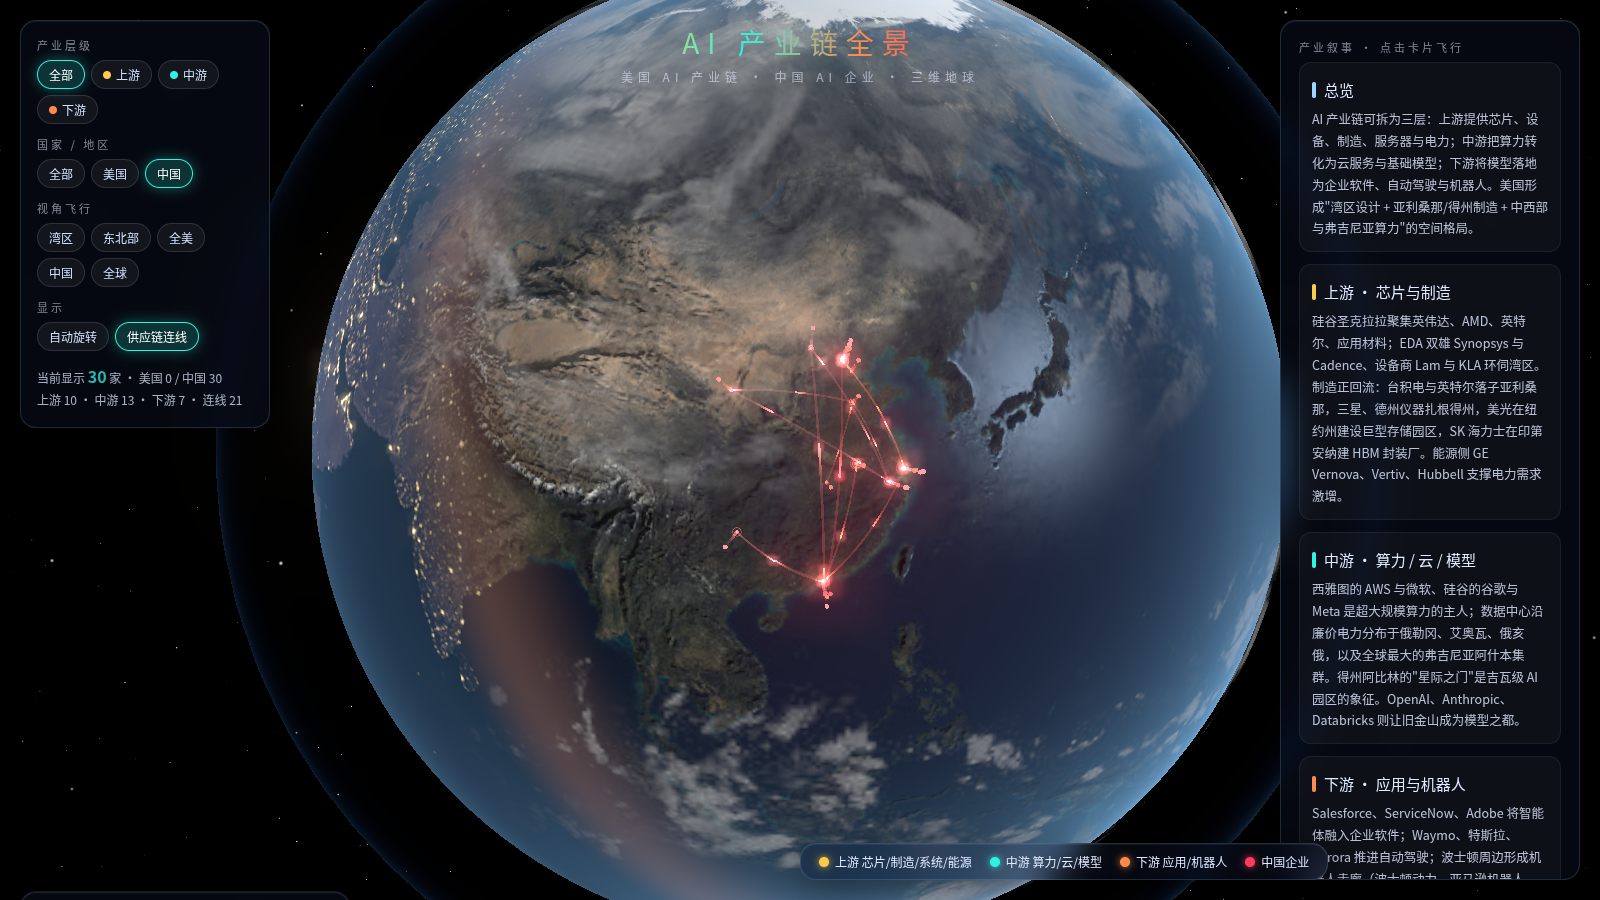
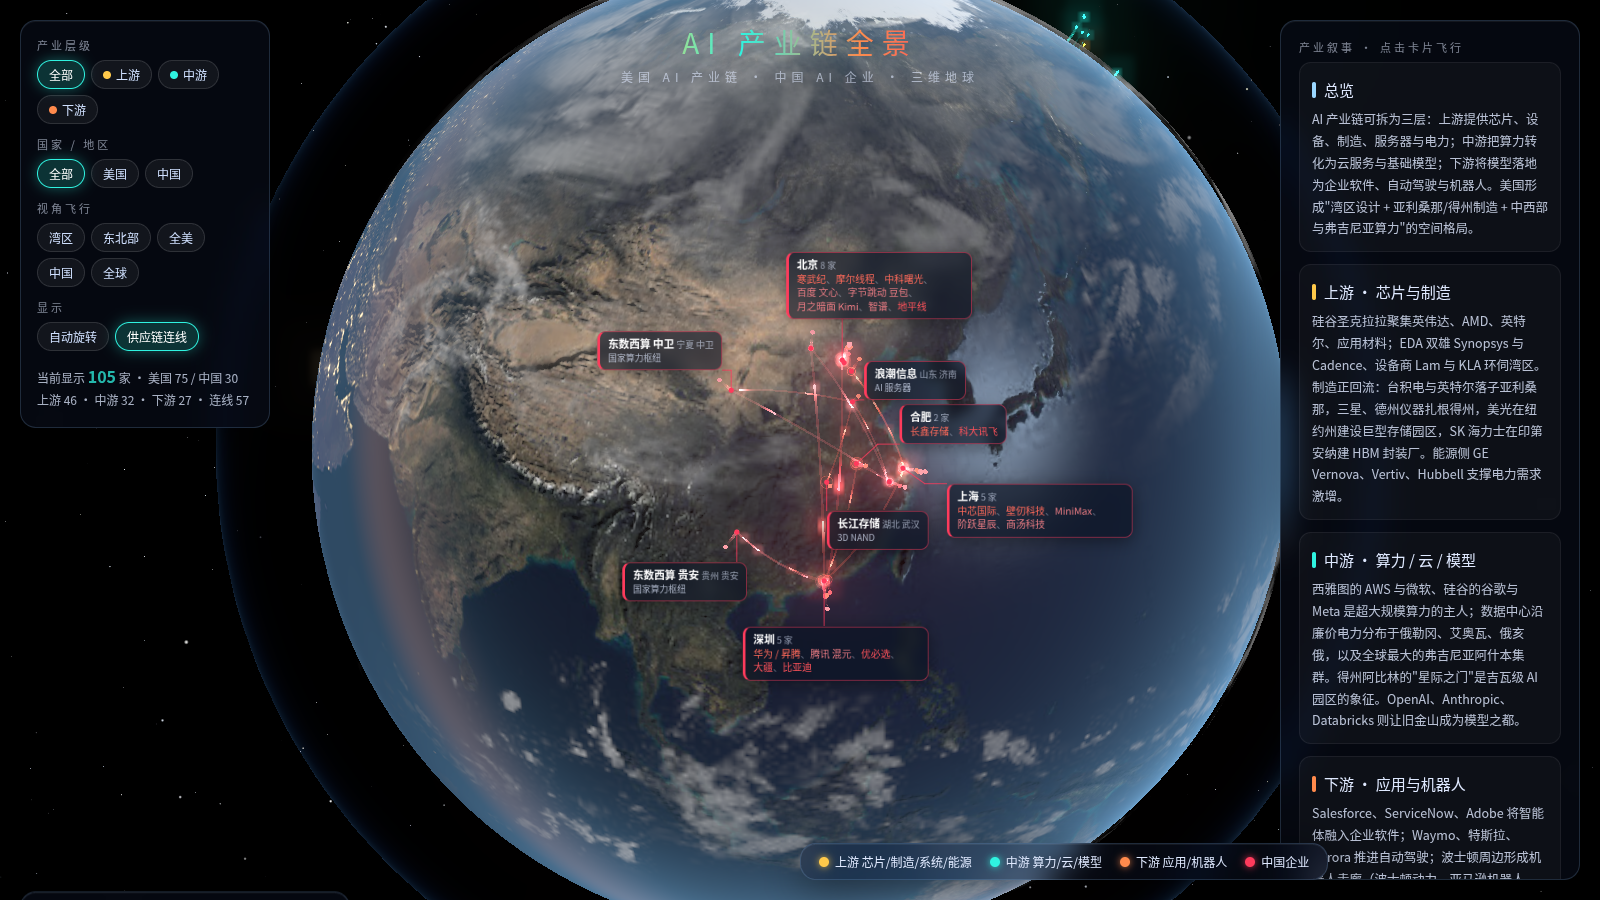
信息图式公司标注卡片：引线、同城聚合、防重叠布局

diff --git a/index.html b/index.html
@@ -43,6 +43,14 @@ button .dot{display:inline-block;width:8px;height:8px;border-radius:50%;margin-r
 #loader{position:fixed;inset:0;display:flex;align-items:center;justify-content:center;flex-direction:column;gap:14px;background:#01030a;z-index:10;transition:opacity 1.2s;font-size:12px;letter-spacing:4px}
 #loader .ring{width:54px;height:54px;border-radius:50%;border:2px solid rgba(47,243,224,.15);border-top-color:var(--teal);animation:sp 1s linear infinite}
 @keyframes sp{to{transform:rotate(360deg)}}
+#lbl{position:fixed;inset:0;pointer-events:none;z-index:0}
+#lbl svg{position:absolute;inset:0;width:100%;height:100%}
+#lbl svg circle{stroke:none}
+.cl{position:absolute;left:0;top:0;pointer-events:auto;cursor:pointer;padding:5px 9px 6px;border-radius:9px;background:rgba(8,16,32,.62);backdrop-filter:blur(6px);-webkit-backdrop-filter:blur(6px);border:1px solid;border-left-width:3px;font-size:11px;line-height:1.4;max-width:210px;white-space:normal;will-change:transform,opacity;transition:background .2s;box-shadow:0 4px 18px rgba(0,0,0,.4)}
+.cl:hover{background:rgba(20,36,64,.85);z-index:5}
+.cl .c{font-size:10px;opacity:.6}.cl b{font-weight:600;font-size:12px;color:#fff}
+.cl .r{font-size:10px;opacity:.7}.cl .n{white-space:nowrap}.cl .n:hover{text-decoration:underline}
+#ctrl,#story,#info,#legend,#title{z-index:2}
 @media(max-width:1100px){#story{display:none}}
 </style>
 <script type="importmap">
@@ -76,7 +84,7 @@ button .dot{display:inline-block;width:8px;height:8px;border-radius:50%;margin-r
 </div>
 <div id="story" class="glass"></div>
 <div id="info" class="glass"><div class="x" id="infoX">×</div><div id="infoBody"></div></div>
-<div id="label"></div>
+<div id="lbl"><svg id="lsvg"></svg></div><div id="label"></div>
 <div id="legend" class="glass">
   <span><i style="color:var(--gold);background:var(--gold)"></i>上游 芯片/制造/系统/能源</span>
   <span><i style="color:var(--teal);background:var(--teal)"></i>中游 算力/云/模型</span>
@@ -342,7 +350,7 @@ grp('ctyBtns','c',v=>{fCty=v;applyFilter();if(v==='CN')flyTo('cn');else if(v==='
 const rotBtn=document.getElementById('rotBtn');rotBtn.onclick=()=>{controls.autoRotate=!controls.autoRotate;rotBtn.classList.toggle('on',controls.autoRotate);};
 const arcBtn=document.getElementById('arcBtn');arcBtn.onclick=()=>{showArcs=!showArcs;arcBtn.classList.toggle('on',showArcs);};
 
-const PRESETS={bay:[37.45,-122.05,1.42],ne:[41.2,-75.5,1.9],us:[38.5,-97,2.7],cn:[33,112,2.6],globe:[30,-40,4.2]};
+const PRESETS={bay:[37.3,-121.6,1.62],ne:[41.2,-75.5,1.9],us:[38.5,-97,2.7],cn:[33,112,2.6],globe:[30,-40,4.2]};
 let fly=null;
 function flyTo(k,latlon){const [lat,lon,d]=latlon||PRESETS[k];const from=camera.position.clone();const to=ll2v(lat,lon,d);
  fly={from,to,t:0,dur:2.2};controls.autoRotate=false;rotBtn.classList.remove('on');}
@@ -378,6 +386,60 @@ function select(o){selected=o;const tagC='#'+o.color.getHexString();
  const cd=camera.position.length();flyTo(null,[o.lat-3,o.lon,Math.min(Math.max(cd,1.5),2.2)]);}
 document.getElementById('infoX').onclick=()=>{document.getElementById('info').classList.remove('open');selected=null;};
 
+
+// ================= INFOGRAPHIC CARDS =================
+const lblRoot=document.getElementById('lbl'),svg=document.getElementById('lsvg');const NS='http://www.w3.org/2000/svg';
+const groups=[];{const m=new Map();markers.forEach(o=>{if(!m.has(o.city))m.set(o.city,[]);m.get(o.city).push(o);});
+ m.forEach((ms,city)=>{const n=new THREE.Vector3();ms.forEach(o=>n.add(o.pos));n.normalize();
+  const el=document.createElement('div');el.className='cl';lblRoot.appendChild(el);
+  const line=document.createElementNS(NS,'path');line.setAttribute('fill','none');line.setAttribute('stroke-width','1');svg.appendChild(line);
+  const dot=document.createElementNS(NS,'circle');dot.setAttribute('r','2.6');svg.appendChild(dot);
+  const g={city,ms,n,pos:n.clone().multiplyScalar(R*1.002),el,line,dot,x:0,y:0,w:0,h:0,init:false,op:0,vis:[]};
+  el.addEventListener('click',e=>{const t=e.target.closest('[data-id]');select(t?byId[t.dataset.id]:g.vis[0]);});
+  groups.push(g);});}
+const hex=c=>'#'+c.getHexString();
+function buildCards(){groups.forEach(g=>{g.vis=g.ms.filter(visible);if(!g.vis.length)return;
+ const cnt={};g.vis.forEach(o=>cnt[o.layer]=(cnt[o.layer]||0)+1);const dom=Object.keys(cnt).sort((a,b)=>cnt[b]-cnt[a])[0];
+ const col=g.vis[0].cty==='CN'?hex(COL.CN):hex(COL[dom]);g.col=col;
+ g.el.style.borderColor=col+'88';g.el.style.borderLeftColor=col;g.line.setAttribute('stroke',col);g.dot.setAttribute('fill',col);
+ if(g.vis.length===1){const o=g.vis[0];g.el.innerHTML=`<b>${o.cn}</b> <span class="c">${o.city}</span><div class="r">${o.role}</div>`;}
+ else g.el.innerHTML=`<b>${g.city.split(' ').pop()}</b> <span class="c">${g.vis.length} 家</span><div>${g.vis.map(o=>`<span class="n" data-id="${o.id}" style="color:${hex(o.color)}">${o.cn}</span>`).join('<span style="opacity:.4">、</span>')}</div>`;
+ g.el.style.transform='none';g.el.style.display='block';g.el.style.visibility='hidden';g.w=g.el.offsetWidth;g.h=g.el.offsetHeight;g.el.style.visibility='';g.el.style.display='none';g.init=false;});}
+const _applyFilter=applyFilter;applyFilter=function(){_applyFilter();buildCards();};
+const tmp=new THREE.Vector3(),camDir=new THREE.Vector3();
+function updateCards(){const W=innerWidth,H=innerHeight;const cd=camera.position.length();camDir.copy(camera.position).normalize();
+ const sc=THREE.MathUtils.clamp(2.3/cd,.72,1);
+ tmp.set(0,0,0).project(camera);const cx=(tmp.x+1)/2*W,cy=(1-tmp.y)/2*H;
+ // horizon: point visible if dot(n,camPos) > R
+ const act=[];const shown=started&&introT>=1;
+ groups.forEach(g=>{const f=g.n.dot(camera.position)/R;const face=(f-1)/(cd-1);g.face=face; // 1 at center
+  if(!shown||!g.vis.length||face<.06){g.act=false;return;}
+  tmp.copy(g.pos).project(camera);g.dx=(tmp.x+1)/2*W;g.dy=(1-tmp.y)/2*H;if(g.dx<(W>1100?250:0)||g.dx>(W>1100?W-310:W)||g.dy<0||g.dy>H){g.act=false;return;}
+  let ox=g.dx-cx,oy=g.dy-cy;const l=Math.hypot(ox,oy)||1;ox/=l;oy/=l;if(l<4){ox=.6;oy=-.8;}
+  const L=28+22*sc,w=g.w*sc,h=g.h*sc;g.sw=w;g.sh=h;
+  g.tx=g.dx+ox*(L+w/2*Math.abs(ox))-0;g.ty=g.dy+oy*(L+h/2*Math.abs(oy));
+  if(!g.init){g.x=g.tx;g.y=g.ty;g.init=true;}g.act=true;act.push(g);});
+ act.sort((a,b)=>b.vis.length-a.vis.length||b.face-a.face);
+ for(let it=0;it<6;it++){
+  act.forEach(g=>{g.x+=(g.tx-g.x)*.12;g.y+=(g.ty-g.y)*.12;});
+  for(let i=0;i<act.length;i++)for(let j=i+1;j<act.length;j++){const a=act[i],b=act[j];
+   const ox=(a.sw+b.sw)/2+6-Math.abs(a.x-b.x),oy=(a.sh+b.sh)/2+5-Math.abs(a.y-b.y);
+   if(ox>0&&oy>0){if(ox<oy){const s=(a.x<b.x?-1:1)*ox/2;a.x+=s*.35;b.x-=s*.65;}else{const s=(a.y<b.y?-1:1)*oy/2;a.y+=s*.35;b.y-=s*.65;}}}
+  const xl=W>1100?285:6,xr=W>1100?W-335:W-6;act.forEach(g=>{g.x=THREE.MathUtils.clamp(g.x,g.sw/2+xl,xr-g.sw/2);g.y=THREE.MathUtils.clamp(g.y,g.sh/2+6,H-g.sh/2-6);});}
+ // greedy declutter: drop cards still overlapping a higher-priority one, or with very long leaders
+ const placed=[];act.forEach(g=>{let ok=Math.hypot(g.x-g.dx,g.y-g.dy)<260*sc+g.sw/2;
+  if(ok)for(const p of placed){const ox=(p.sw+g.sw)/2-Math.abs(p.x-g.x),oy=(p.sh+g.sh)/2-Math.abs(p.y-g.y);if(ox>2&&oy>2){ok=false;break;}}
+  g.keep=ok;if(ok)placed.push(g);});
+ groups.forEach(g=>{const tgt=g.act&&g.keep?THREE.MathUtils.smoothstep(g.face,.06,.3):0;g.op+=(tgt-g.op)*.18;
+  const vis=g.op>.02;g.el.style.display=vis?'block':'none';g.line.style.display=g.dot.style.display=vis?'':'none';
+  if(g.act)g.dot.setAttribute('cx',g.dx),g.dot.setAttribute('cy',g.dy),g.dot.style.display=g.act?'':'none',g.dot.style.opacity=Math.min(1,g.face*4);
+  if(!vis)return;
+  g.el.style.opacity=g.op;g.el.style.transform=`translate(${g.x-g.sw/2}px,${g.y-g.sh/2}px) scale(${sc})`;g.el.style.transformOrigin='0 0';
+  // leader: from dot to nearest card edge point
+  const ex=THREE.MathUtils.clamp(g.dx,g.x-g.sw/2,g.x+g.sw/2),ey=THREE.MathUtils.clamp(g.dy,g.y-g.sh/2,g.y+g.sh/2);
+  const mx=(g.dx+ex)/2;g.line.setAttribute('d',`M${g.dx.toFixed(1)},${g.dy.toFixed(1)} L${(Math.abs(ex-g.dx)>Math.abs(ey-g.dy)?mx:g.dx).toFixed(1)},${ey.toFixed(1)} L${ex.toFixed(1)},${ey.toFixed(1)}`);
+  g.line.style.opacity=g.op*.8;});}
+
 // ================= LOOP =================
 const clock=new THREE.Clock();let introT=0,started=false;
 mgr.onLoad=()=>{document.getElementById('loader').style.opacity=0;setTimeout(()=>document.getElementById('loader').remove(),1300);started=true;document.body.classList.add('show');applyFilter();};
@@ -398,10 +460,10 @@ function tick(){const dt=Math.min(clock.getDelta(),.05);const t=clock.elapsedTim
  controls.update();
  hovered=started&&!fly?pick():null;renderer.domElement.style.cursor=hovered?'pointer':'grab';
  if(hovered){label.style.opacity=1;label.style.left=mx+'px';label.style.top=my+'px';label.innerHTML=`<b style="color:#${hovered.color.getHexString()}">●</b> ${hovered.cn} <span style="opacity:.55">· ${hovered.city}</span>`;}else label.style.opacity=0;
- composer.render();requestAnimationFrame(tick);}
+ updateCards();composer.render();requestAnimationFrame(tick);}
 tick();
 addEventListener('resize',()=>{camera.aspect=innerWidth/innerHeight;camera.updateProjectionMatrix();renderer.setSize(innerWidth,innerHeight);composer.setSize(innerWidth,innerHeight);bloom.resolution.set(innerWidth,innerHeight);});
-window.__flyTo=flyTo;window.__ctl=controls;window.__setCty=v=>document.querySelector(`#ctyBtns button[data-c="${v}"]`).click();
+window.__flyTo=flyTo;window.__setLayer=v=>document.querySelector(`#layerBtns button[data-l="${v}"]`).click();window.__ctl=controls;window.__setCty=v=>document.querySelector(`#ctyBtns button[data-c="${v}"]`).click();
 </script>
 </body>
 </html>
